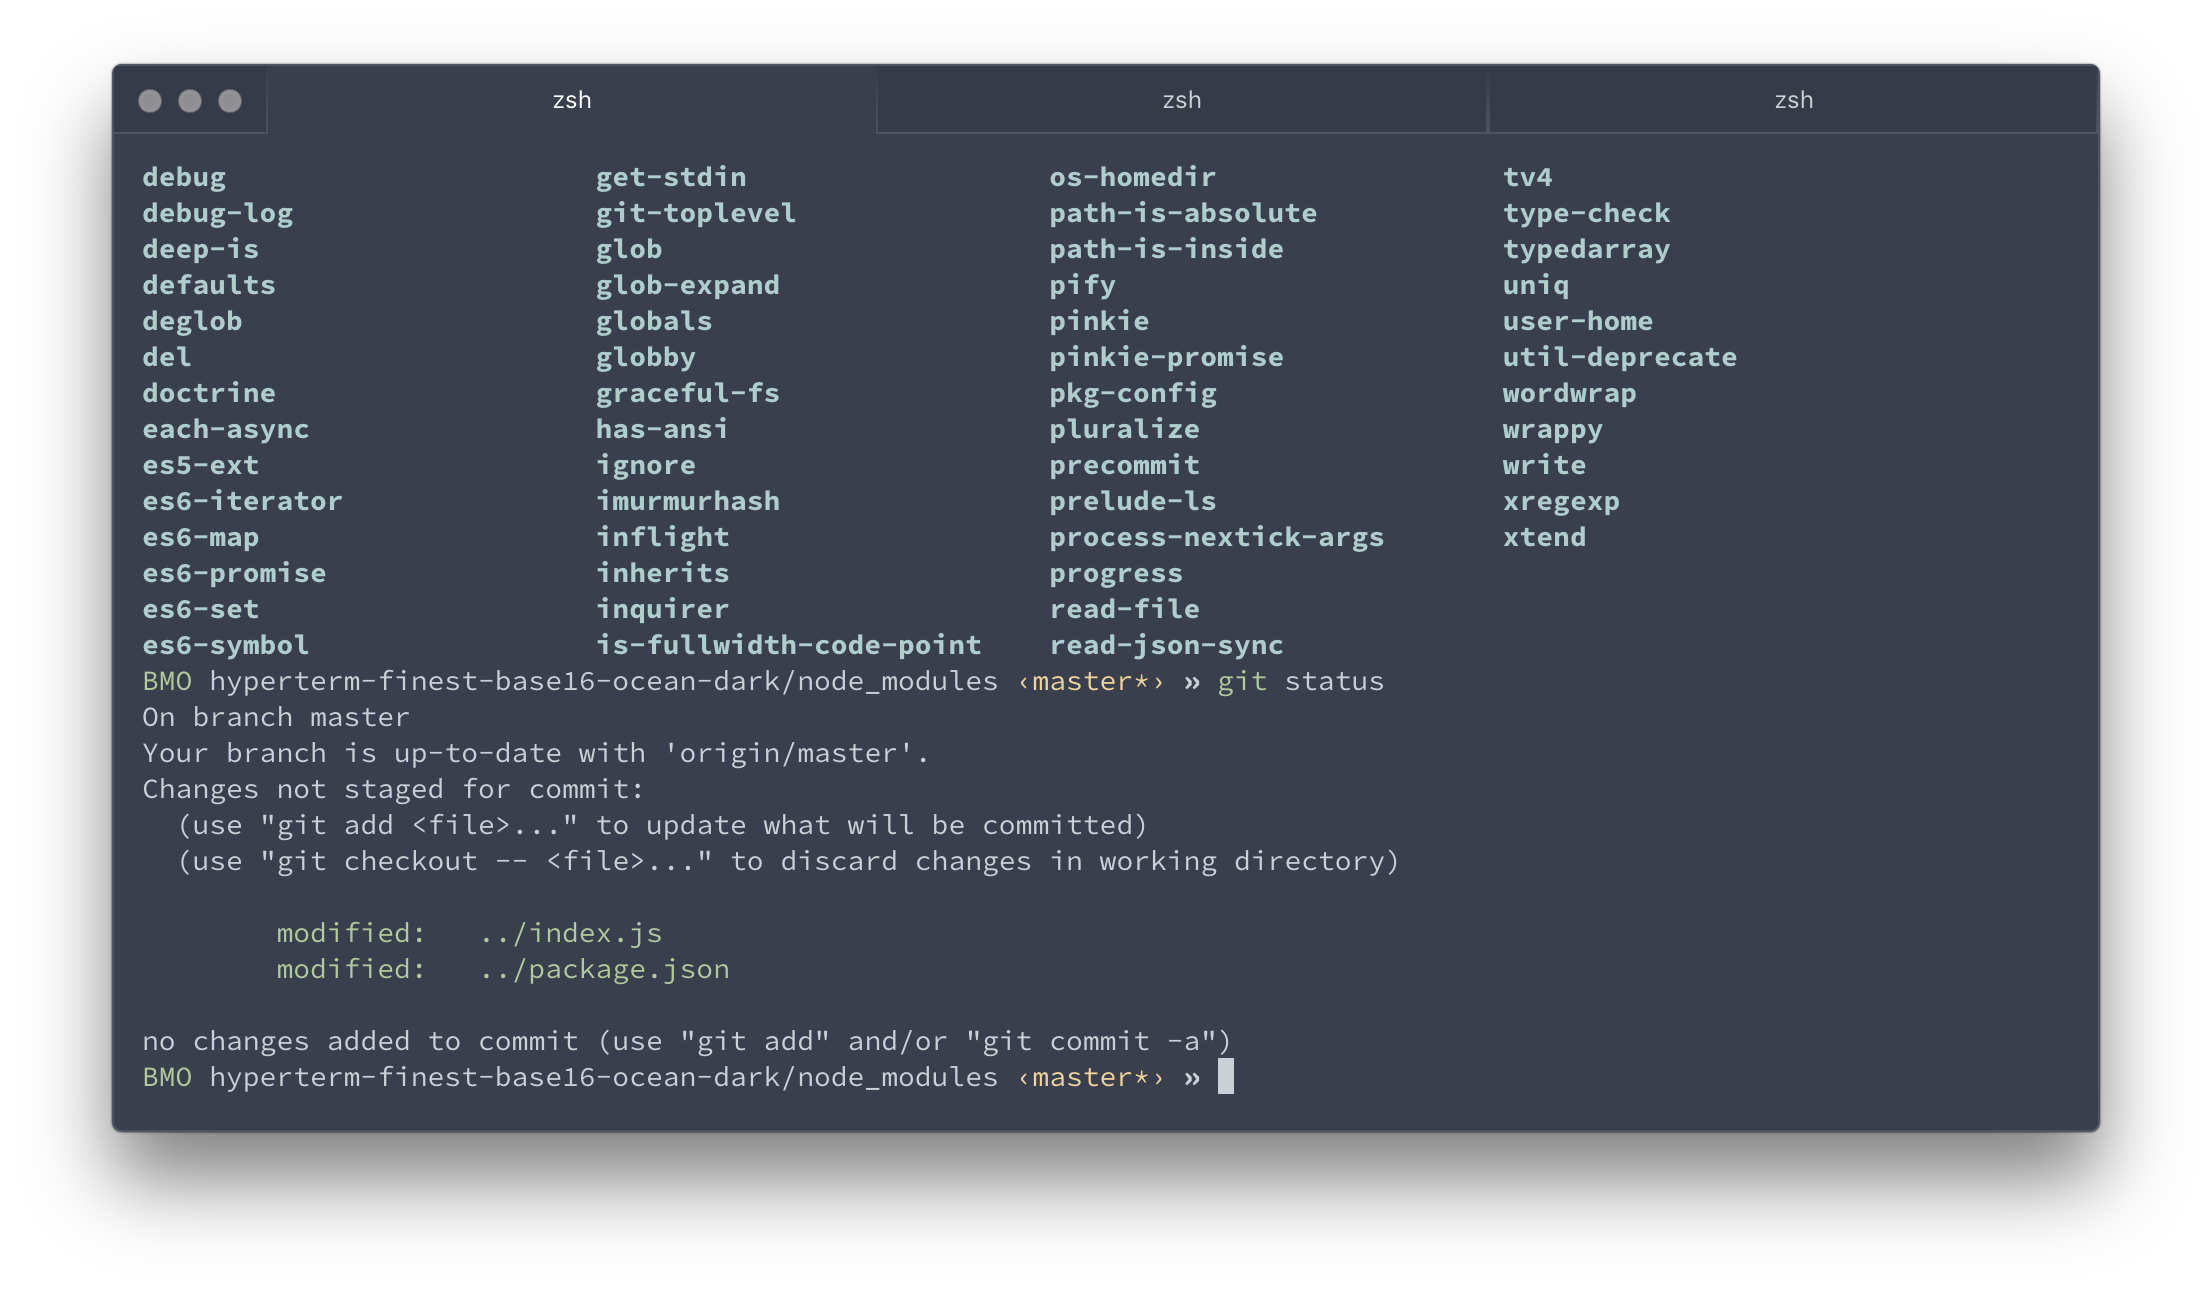
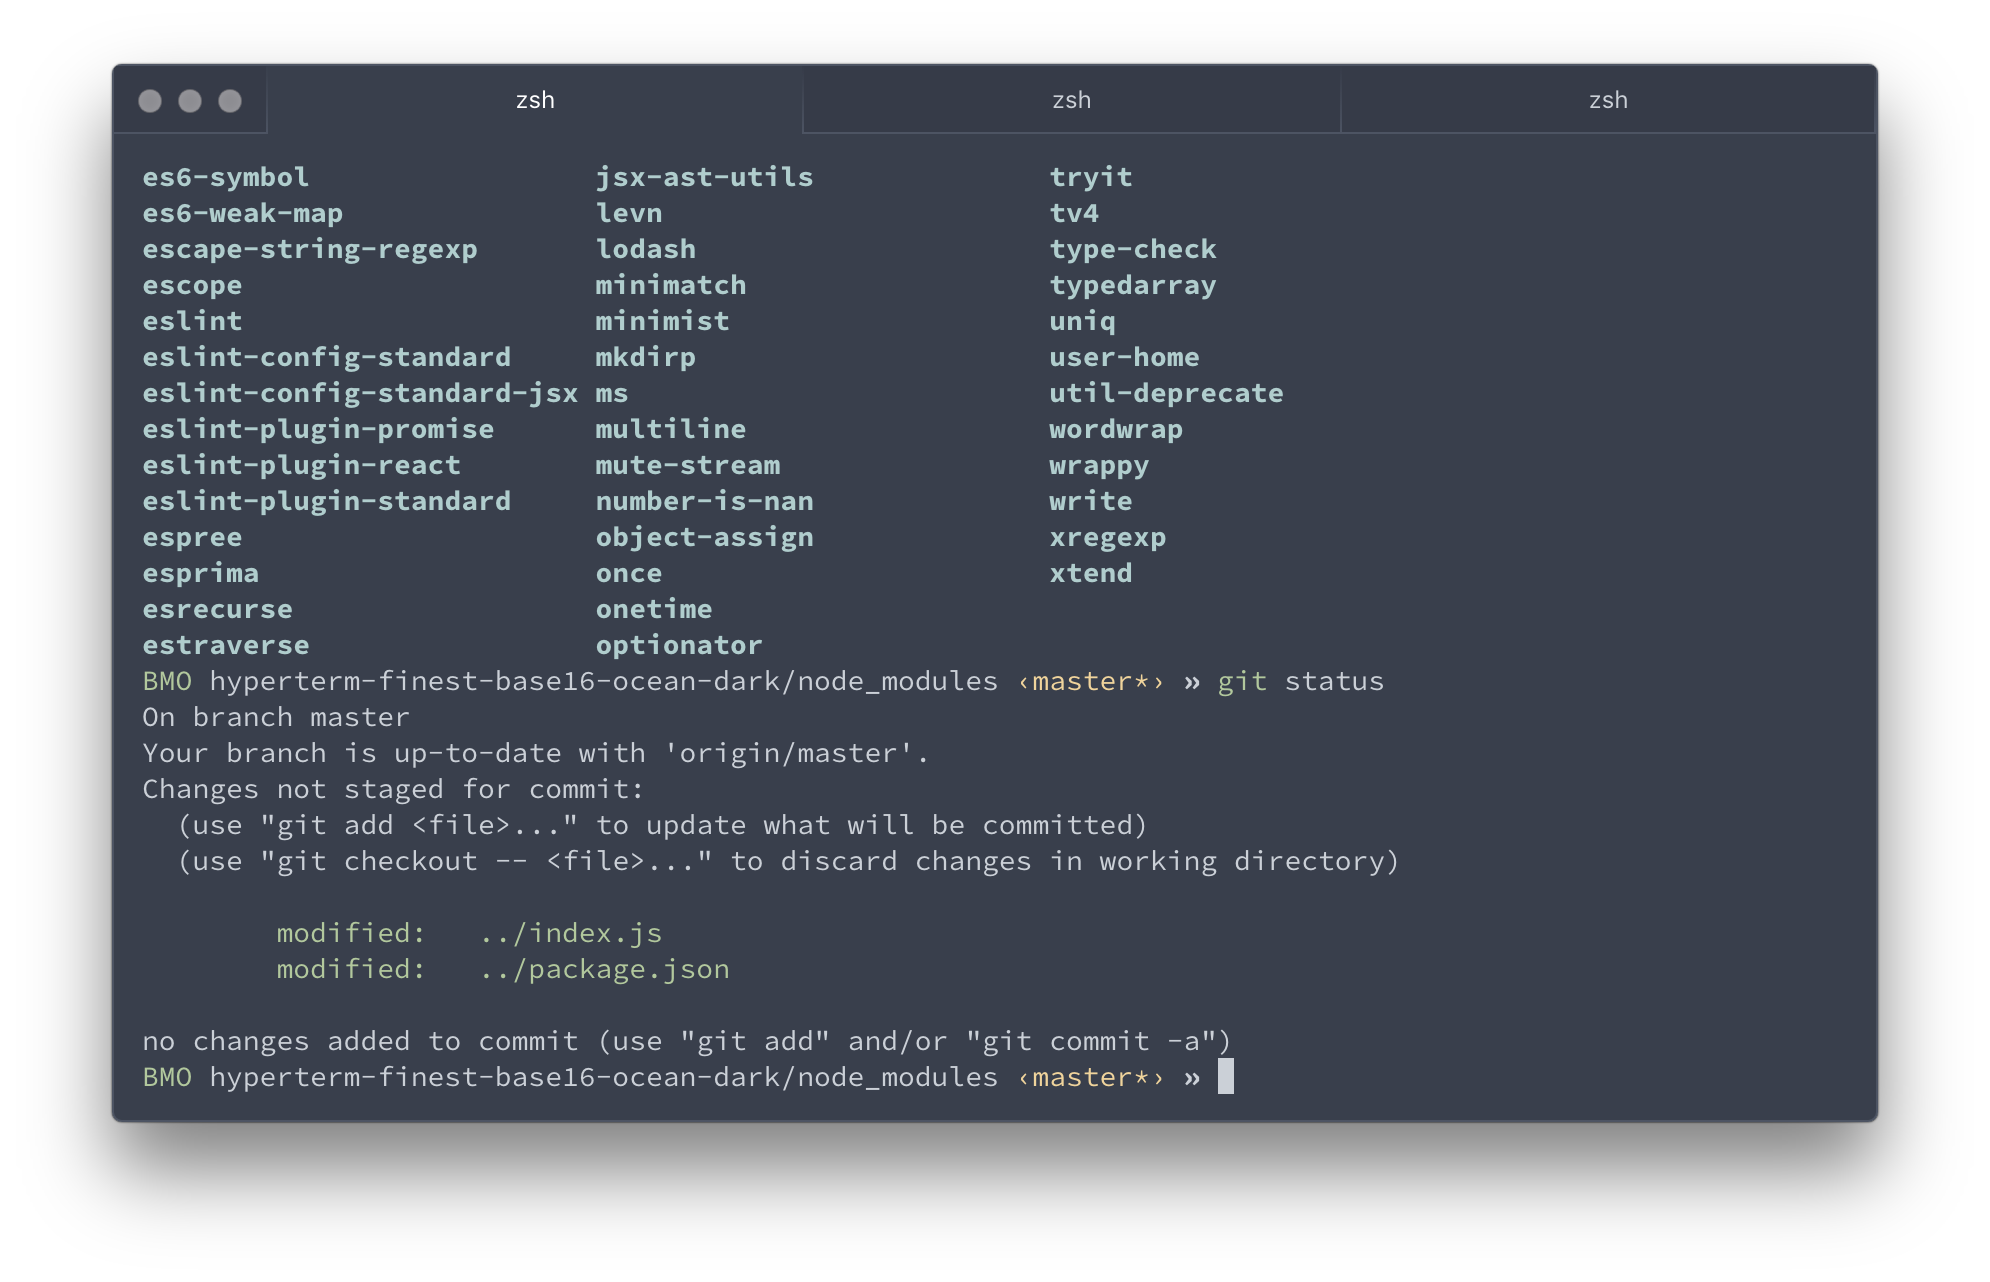
Final touches on the tabs

diff --git a/index.js b/index.js
@@ -60,7 +60,6 @@ Object.assign({}, config, {
         background-color: ${DARKER_BLACK} !important;
         border-width: 0px !important;
         border-left-width: 1px !important;
-        border-right-width: 1px !important;
         border-style: solid !important;
         border-image: linear-gradient(to bottom, rgba(77, 84, 99, 0) 0%, rgba(77, 84, 99, 1) 100%) 1 !important;
       }
@@ -75,7 +74,6 @@ Object.assign({}, config, {
         background-color: ${BACKGROUND_COLOR} !important;
         height: calc(100% + 1px);
         border-left: 1px solid ${BORDER_COLOR} !important;
-        border-right: 0px !important;
         color: #fff !important;
       }
       .tab_tab:last-child {
